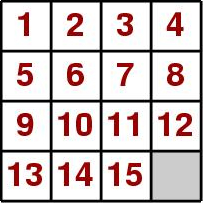
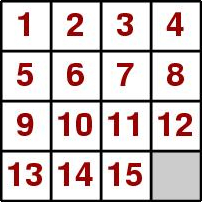
Sliding puzzle image can be selected

diff --git a/portfolio-site/src/Components/Projects/SlidingPuzzle.js b/portfolio-site/src/Components/Projects/SlidingPuzzle.js
@@ -1,6 +1,7 @@
 import React, { Component } from "react";
-import { Container, Button } from "semantic-ui-react";
-import picture from "../../Img/NumberedTiles.jpg";
+import { Container, Button, Dropdown } from "semantic-ui-react";
+import Numbered from "../../Img/NumberedTiles.jpg";
+import Running from "../../Img/RunningMan.jpeg";
 import "./SlidingPuzzle.css";
 
 export default class SlidingPuzzle extends Component {
@@ -8,14 +9,26 @@ export default class SlidingPuzzle extends Component {
     super(props);
 
     this.state = {
+      picture: 0,
       completed: null,
+      showReset: false,
       moves: 0
     };
   }
 
+  changeImage = (e, { value }) => {
+    console.log("changing", value);
+    this.setState({ picture: value });
+  };
+
   splitImage = () => {
+    this.setState({ completed: null });
+    console.log(this.state);
     let canvas = document.createElement("canvas");
     let puzzle = document.getElementById("puzzle");
+    while (puzzle.firstChild) {
+      puzzle.removeChild(puzzle.firstChild);
+    }
     let ctx = canvas.getContext("2d");
     let parts = [];
     let img = new Image(1000, 1000);
@@ -48,18 +61,29 @@ export default class SlidingPuzzle extends Component {
       puzzle.appendChild(empty);
     };
 
-    img.src = picture;
+    if (this.state.picture === 0) {
+      console.log("0");
+      img.src = Numbered;
+    } else if (this.state.picture === 1) {
+      console.log("1");
+      img.src = Running;
+    }
   };
 
   randomizePuzzle = () => {
     this.setState({ completed: false, moves: 0 });
+    setTimeout(() => {
+      this.setState({ showReset: true });
+    }, 6500);
     const puzzle = document.getElementById("puzzle");
     let childNodes = [].slice.call(puzzle.childNodes);
     childNodes.forEach(elem =>
       elem.addEventListener("click", this.handleTileClick)
     );
     let lastMove;
+
     const randomizeDelay = i => {
+      console.log(i);
       (i => {
         setTimeout(() => {
           childNodes = [].slice.call(puzzle.childNodes);
@@ -94,12 +118,17 @@ export default class SlidingPuzzle extends Component {
           let swappingTile = childNodes[emptyIndex + distance];
           childNodes = this.swapTiles(puzzle, empty, swappingTile);
           lastMove = distance * -1;
-        }, 30 * i);
+        }, 25 * i);
       })(i);
     };
     for (let i = 0; i < 250; i++) {
       randomizeDelay(i);
     }
+  };
+
+  handleReset = () => {
+    this.setState({ showReset: false });
+    this.splitImage();
   };
 
   handleTileClick = e => {
@@ -132,6 +161,14 @@ export default class SlidingPuzzle extends Component {
   };
 
   swapTiles = (parent, element1, element2) => {
+    if (
+      !parent ||
+      !element1 ||
+      !element2 ||
+      element1.parentNode !== parent ||
+      element2.parentNode !== parent
+    )
+      return null;
     let clone1 = element1.cloneNode(true);
     let clone2 = element2.cloneNode(true);
     clone1.addEventListener("click", this.handleTileClick);
@@ -154,7 +191,20 @@ export default class SlidingPuzzle extends Component {
     this.splitImage();
   };
 
+  componentDidUpdate = (prevProps, prevState) => {
+    // picture selection was updated
+    if (this.state.picture !== prevState.picture) {
+      console.log("updated");
+      this.splitImage();
+    }
+  };
+
   render() {
+    console.log(this.state);
+    const pictureOptions = [
+      { value: 0, text: "Numbered" },
+      { value: 1, text: "Running Man" }
+    ];
     return (
       <div className="SlidingPuzzle">
         <div className="SlidingPuzzle__Header">
@@ -163,11 +213,24 @@ export default class SlidingPuzzle extends Component {
           </Container>
         </div>
         <Container>
+          Picture:{" "}
+          <Dropdown
+            defaultValue={0}
+            options={pictureOptions}
+            onChange={this.changeImage}
+            disabled={this.state.completed === false}
+          />
           <Button
             onClick={this.randomizePuzzle}
             disabled={this.state.completed === false}
           >
             Scramble
+          </Button>
+          <Button
+            onClick={this.handleReset}
+            disabled={!this.state.showReset || this.state.completed}
+          >
+            Reset
           </Button>
           <div>Moves: {this.state.moves}</div>
           {this.state.completed ? <div>You've won!</div> : null}
